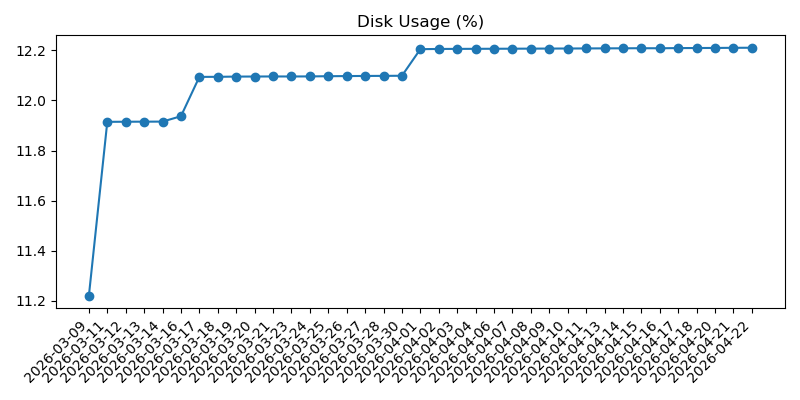
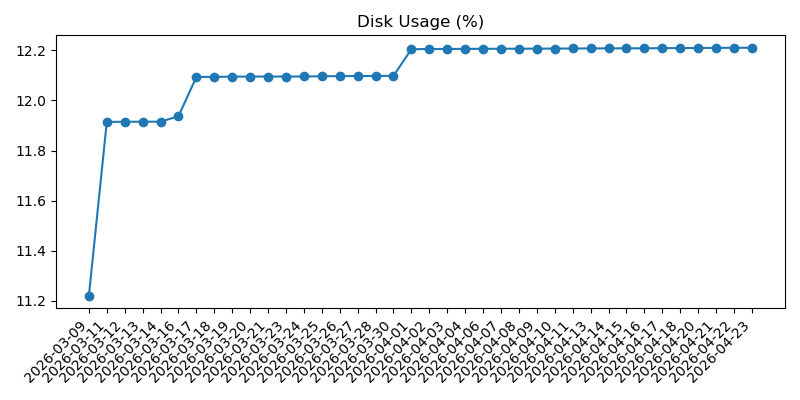
Update Pi daily status

Changed region(s): [[0.0625, 0.78, 0.9375, 0.96], [0.1562, 0.09, 0.875, 0.33]]

diff --git a/2026-04.md b/2026-04.md
@@ -646,3 +646,37 @@
 - Overall: Good
 - Warning: None
 
+## 2026-04-23 09:12:07
+
+### Machine
+- Uptime: up 2 days, 10 hours, 57 minutes
+- CPU load (1m, 5m, 15m): 0.00, 0.00, 0.00
+- RAM used: 162 MB / 921 MB (17.6%)
+- Disk used (/): 3.5 GB / 28.8 GB (12.2%)
+- Free disk space (/): 24.1 GB
+- CPU temp: 37.6°C
+- Voltage / throttling: OK
+
+### Reachability
+- Internet check (1.1.1.1): Reachable (3.2 ms)
+
+### Weather
+- Madrid:
+  - Condition: Intervalos nubosos con lluvia
+  - Max temp: 29°C
+  - Min temp: 13°C
+  - Feels like: 21°C
+  - Chance of rain: 100%
+  - Warnings: None reported
+- Barcelona:
+  - Condition: Intervalos nubosos
+  - Max temp: 21°C
+  - Min temp: 16°C
+  - Feels like: 19°C
+  - Chance of rain: 45%
+  - Warnings: None reported
+
+### Health
+- Overall: Good
+- Warning: None
+
